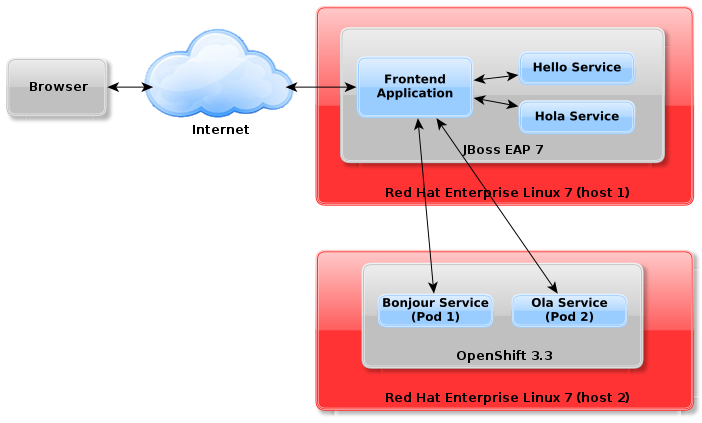
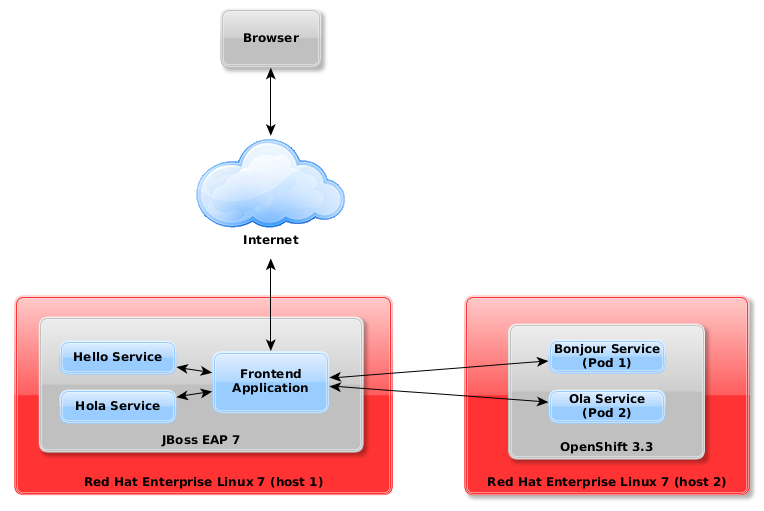
Updated images to better portray the 'sidecar' concept.

diff --git a/plusonelegacy/src/main/webapp/index-legacy.html b/plusonelegacy/src/main/webapp/index-legacy.html
@@ -43,7 +43,7 @@
 				<div class="page-header page-header-bleed-right">
 					<h1>Using Browser as a Client</h1>
 				</div>
-				<div id="tab-browser-content" style="width: 45%; float: left;">
+				<div id="tab-browser-content" style="width: 50%; float: left;">
 					<div class="row">
                         <div class="col-sm-6 ">
                             <!-- Hello Service -->
@@ -62,20 +62,18 @@
 									<h3 class="panel-title">Hola Service</h3>
 									(Web Service)
 								</div>
-								<div id="hola-service" class="panel-body">Loading...</div>
+								<div id="hola-legacy-service" class="panel-body">Loading...</div>
 							</div>
                         </div>
                         <a id="refresh-browser2" href="#"><span class="pficon"></span>Refresh Results</a>
                     </div>
                 </div>
-                <img src="images/graph1.png" style="float: right; width: 45%; height: 15em" />
+                <img src="images/graph1.png" style="float: right; width: 30%; height: 30%;" />
 			</div>
 		</div>
 	</div>
 
 	<script src="scripts/page.js"></script>
 	<script src="scripts/browser-client.js"></script>
-	<!--script src="scripts/service-chain.js"></script-->
-	<!--script src="scripts/api-gateway.js"></script-->
 </body>
 </html>

diff --git a/plusonelegacy/src/main/webapp/index-hybrid.html b/plusonelegacy/src/main/webapp/index-hybrid.html
@@ -66,7 +66,7 @@
 									<h3 class="panel-title">Hola Service</h3>
 									(Web Service)
 								</div>
-								<div id="hola-service" class="panel-body">Loading...</div>
+								<div id="hola-legacy-service" class="panel-body">Loading...</div>
 							</div>
                         </div>
                     </div>
@@ -94,7 +94,7 @@
                         <a id="refresh-browser2" href="#"><span class="pficon"></span>Refresh Results</a>
                     </div>
                 </div>
-                <img src="images/graph2.png" style="float: right; width: 50%; height: 25em" />
+                <img src="images/graph2.png" style="float: right; width: 50%; height: 30em" />
             </div>
     	</div>
 	</div>

diff --git a/plusonelegacy/src/main/webapp/index-move.html b/plusonelegacy/src/main/webapp/index-move.html
@@ -65,7 +65,7 @@
 									<h3 class="panel-title">Hola Service</h3>
 									(Web Service)
 								</div>
-								<div id="hola-service" class="panel-body">Loading...</div>
+								<div id="hola-move-service" class="panel-body">Loading...</div>
 							</div>
 
                                                 </div>
@@ -103,7 +103,5 @@
 
 	<script src="scripts/page.js"></script>
 	<script src="scripts/browser-client.js"></script>
-	<!--script src="scripts/service-chain.js"></script-->
-	<!--script src="scripts/api-gateway.js"></script-->
 </body>
 </html>

diff --git a/README.md b/README.md
@@ -1,14 +1,33 @@
 # PlusOne Demo
-
 ***
+
+## Purpose
+
+The purpose of this is to demonstrate the introduction of an OpenShift containerized implementation into an existing legacy infrastructure.  
+
+The legacy application used in this demo is a simple web application packaged as a war having a front end calling restful webservices to display various 'hello world' messages.
+
+![Legacy Application](./plusonelegacy/src/main/webapp/images/graph1.png  "Legacy Application")
+
+We first introduce new services running in OpenShift and integrate them in to the existing legacy application.
+
+![Hybrid Application](./plusonelegacy/src/main/webapp/images/graph2.png  "Hybrid Application")
+
+The final example is to move one of the legacy services to OpenShift and modify the front end application to use the new service.
+
+![Hybrid Application](./plusonelegacy/src/main/webapp/images/graph3.png  "Hybrid Application")
+
 ## Prerequisites
 - **Linux**
-	- This demo was created and tested using Fedora 24 but should work with any distrobution as long as the following prerequisites are met.
+	- This demo was created and tested using Fedora 24 and RHEL 7.3.
 - **Java Runtime**
 	- version >= 1.8
 - **Docker**
-	- version >= 10
-	<https://docs.docker.com/engine/installation/>
+	- version >= 10 <https://docs.docker.com/engine/installation/>
+	- add the following to /etc/sysconfig/docker
+```sh
+INSECURE_REGISTRY='--insecure-registry 172.30.0.0/16'
+```
 - **Ansible**
 	- version >= 2.3
 	*At time of writing (2016/11/28), some Linux distro's had version 2.2 in their repositories and in order to get 2.3 you have to run from source* <http://docs.ansible.com/ansible/intro_installation.html#running-from-source>.
@@ -24,25 +43,38 @@ Clone the github repository
 ## Option 1 - From Binaries
 To make it easier and remove dependencies on build tools, all source has been compiled/packaged and has been downloaded when cloning the github repository in the previous step.
 
-### Step 2 - Configure Installation
+### Step 1 - Configure Installation
 Edit <plusoneROOT\>/ansible/plusonedemo/hosts
 
 Edit <plusoneROOT\>/ansible/plusonedemo/site.yaml
 
-### Step 3 - Run Ansible
+### Step 2 - Run Ansible to Install the Legacy Application
 	$ cd <plusoneROOT\>/ansible/plusonedemo
-	$ ansible-playbook -i hosts site.yml
+	$ ansible-playbook -i hosts legacy.yml
+
+### Step 3 - Run Ansible to Install OpenShift Services
+	$ cd <plusoneROOT\>/ansible/plusonedemo
+	$ ansible-playbook -i hosts openshift.yml
 
 ## Option 2 - From Source
 ###Additional Prerequisites
 In addition to the main prerequisites above, the following are required to compile and deploy the source in the following sections.
-
-
-	$ kill -9 `fuser -f nohup.out`
-	$ docker stop origin `docker ps -q`
 
 - **Maven**
 	- version >= 3.3
 - **NPM**
 	- version >= 2.15
 
+### Step 1 - Build and Deploy Legacy Application
+With Wildfly or JBoss running, execute the following
+
+	$ cd <plusoneROOT\>/plusonelegacy
+	$ mvn clean install wildfly:deploy
+
+
+## Troubleshooting
+
+
+## Notes
+	$ kill -9 `fuser -f nohup.out`
+	$ docker stop origin `docker ps -q`
